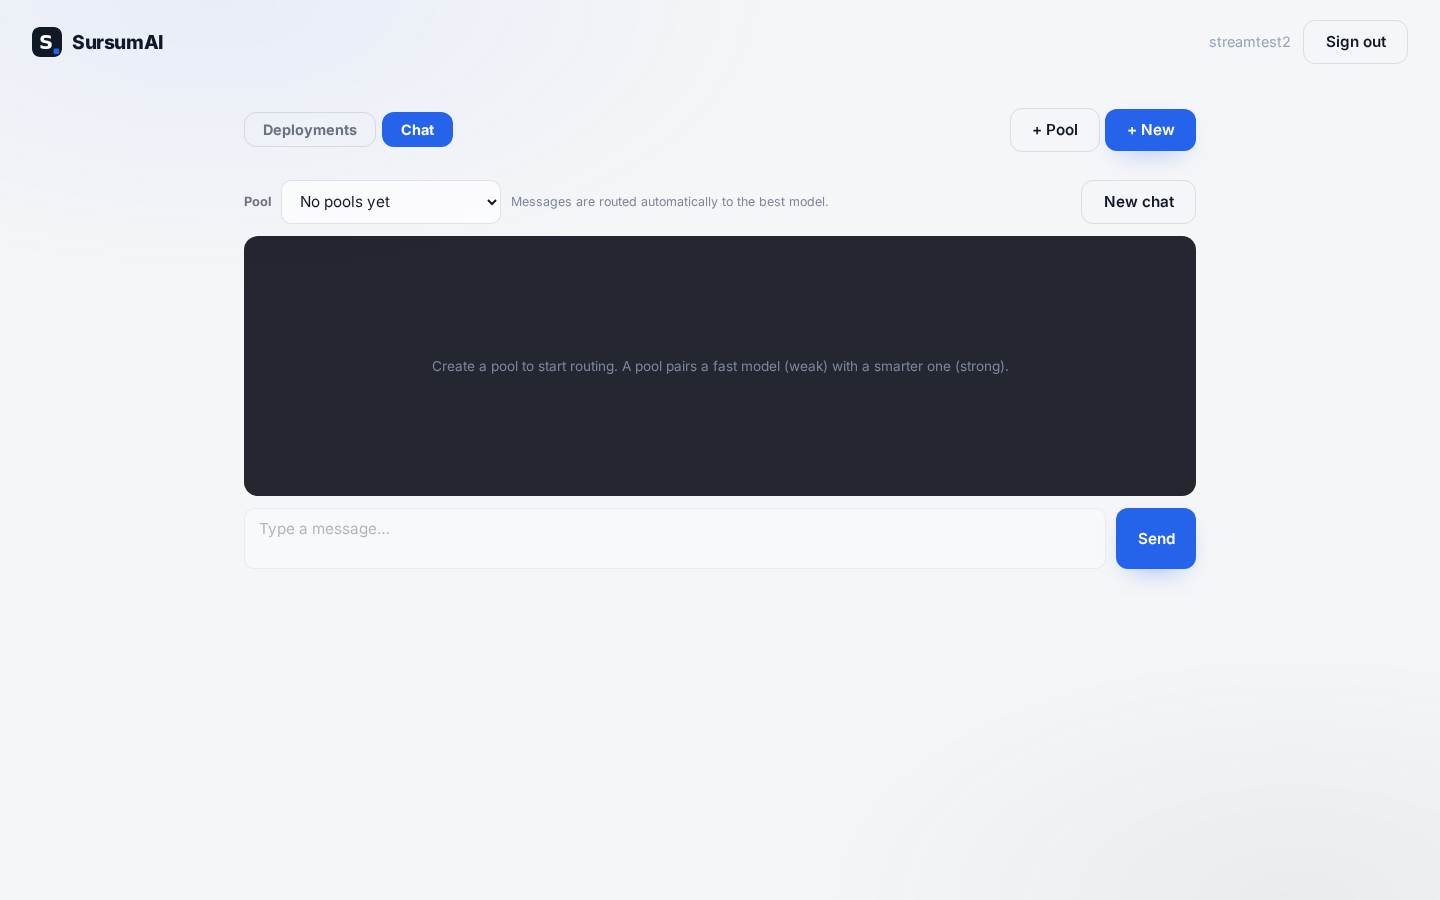
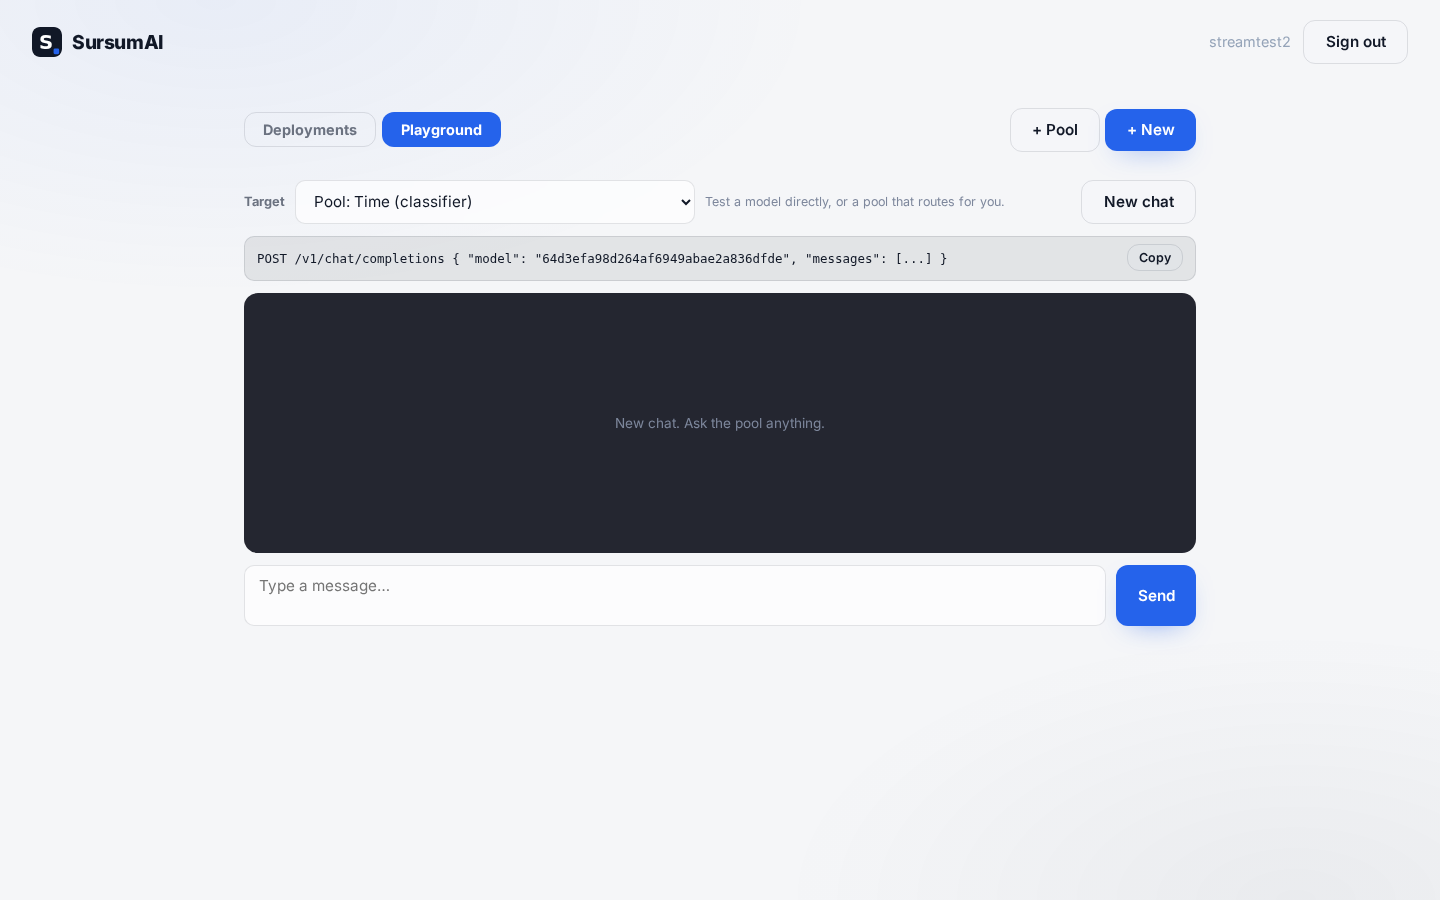
Playground: barra com URL da API do alvo (pool -> /v1/chat/completions com model=pool_id, modelo -> /deploys/{id}/chat) + botao copy com snippet curl

diff --git a/web/app.js b/web/app.js
@@ -1040,7 +1040,36 @@ function chatTargetChanged() {
   const hasTarget = !!target;
   document.getElementById("chatInput").disabled = !hasTarget;
   document.getElementById("chatSend").disabled = !hasTarget;
+  const apiRow = document.getElementById("chatApiRow");
+  const apiUrl = document.getElementById("chatApiUrl");
+  if (!target) { apiRow.classList.add("hidden"); return; }
+  if (target.startsWith("pool:")) {
+    apiUrl.textContent = `POST /v1/chat/completions  { "model": "${target.slice(5)}", "messages": [...] }`;
+  } else {
+    apiUrl.textContent = `POST /deploys/${target}/chat  (${target.slice(0, 8)}…)`;
+  }
+  apiRow.classList.remove("hidden");
   if (target) renderChatHistory(target);
+}
+
+function copyChatApi() {
+  const target = document.getElementById("chatTarget").value;
+  if (!target) return;
+  const snippet = target.startsWith("pool:")
+    ? `curl -X POST http://localhost:8001/v1/chat/completions \\
+  -H "Content-Type: application/json" \\
+  -H "Authorization: Bearer $TOKEN" \\
+  -d '{"model": "${target.slice(5)}", "messages": [{"role": "user", "content": "Hello!"}]}'`
+    : `curl -X POST http://localhost:8001/deploys/${target}/chat \\
+  -H "Content-Type: application/json" \\
+  -H "Authorization: Bearer $TOKEN" \\
+  -d '{"messages": [{"role": "user", "content": "Hello!"}]}'`;
+  const done = () => toast("API snippet copied!");
+  if (navigator.clipboard && navigator.clipboard.writeText) {
+    navigator.clipboard.writeText(snippet).then(done).catch(() => toast(snippet.slice(0, 80) + "…"));
+  } else {
+    toast(snippet.slice(0, 80) + "…");
+  }
 }
 
 let poolHealthyDeploys = [];

diff --git a/web/style.css b/web/style.css
@@ -247,6 +247,17 @@ body {
 .dash-tab.active { background: var(--blue); color: #fff; border-color: transparent; }
 .sursum-grid { display: grid; gap: 20px; }
 
+.chat-api-row {
+  display: flex; align-items: center; gap: 10px;
+  background: rgba(17, 20, 30, 0.08); border: 1px solid var(--glass-border);
+  border-radius: 10px; padding: 8px 12px;
+}
+.chat-api-url {
+  flex: 1; font-family: ui-monospace, SFMono-Regular, Menlo, monospace;
+  font-size: 0.78rem; color: var(--text); overflow-x: auto; white-space: nowrap;
+}
+.chat-api-copy { flex: none; font-size: 0.78rem; padding: 0.4em 0.9em; }
+
 /* --- chat (router) --- */
 .pool-models { display: flex; flex-direction: column; gap: 8px; margin-bottom: 8px; }
 .pool-model-row { display: flex; gap: 8px; align-items: center; }

diff --git a/web/index.html b/web/index.html
@@ -166,6 +166,10 @@
             </div>
             <button class="btn btn-ghost" onclick="newChat()">New chat</button>
           </div>
+          <div id="chatApiRow" class="chat-api-row hidden">
+            <code id="chatApiUrl" class="chat-api-url"></code>
+            <button class="btn btn-ghost chat-api-copy" onclick="copyChatApi()">Copy</button>
+          </div>
           <div id="chatMessages" class="chat-messages">
             <div class="play-empty">Pick a model or a pool and start chatting.</div>
           </div>
